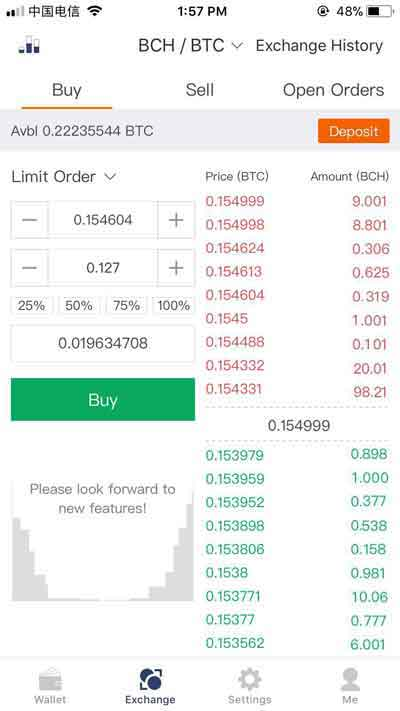
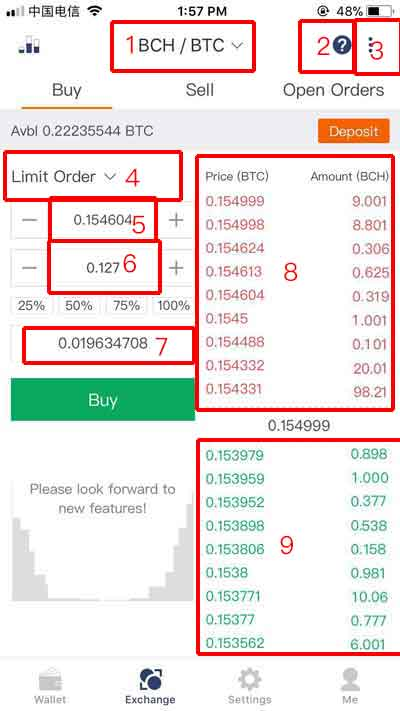
modify expie

diff --git a/Expie/index.rst b/Expie/index.rst
@@ -1,7 +1,7 @@
 交易所
 ========================
 
-目前 ExPie 支持 BCH/BTC 、BTG/BTC 、LTC/BTC 、ETH/BTC、 ETC/BTC、 ZEC/BTC 交易。
+目前 ExPie 支持 BCH/BTC 交易。
 
 将您需要交易的币充值到派银行。
 
@@ -29,7 +29,7 @@ BCH/BTC 买入
 
 
 
-2､ 选择下单类型限价、市价，默认为限价。
+2､ 下单类型：默认限价。
 
 3、输入 价格（BTC）、数量（BCH），选择比例，以及成交金额（BTC），选择买入。
 
@@ -38,6 +38,9 @@ BCH/BTC 买入
     :height: 520px
     :scale: 100%
     :align: center
+
+图中说明：1、切换交易对。 2、EXPIE LIMITED。 3､查看历史成交及交易流水。 4､下单类型。5､价格（BTC）。 6、数量（BCH）。 7、成交金额（BTC）。 8、卖单区。 9、买单区。
+
 
 
 4、买入之后，可在当前委托查看您买入的订单，等待订单成交。如果买入订单有误可以在当前委托界面中撤单。
@@ -50,7 +53,7 @@ BCH/BTC 买入
 
 
 
-5、订单成交之后，右上角 历史成交 界面查看订单详情。
+5、订单成交之后，可在右上角三点查看历史成交及交易流水。
 
 .. image:: ../img/btcdetail.jpg
     :width: 320px
@@ -66,7 +69,7 @@ BCH/BTC 卖出
 
 1、将 BCH 充值到派银行中，底部菜单－交易所－充值－派银行（充值)。
 
-2、选择类型下单类型限价、市价，默认为限价。
+2、下单类型：默认为限价。
 
 3、输入 价格（BTC）、数量（BCH），选择比例，以及成交金额（BTC），选择卖出。
 
@@ -79,7 +82,7 @@ BCH/BTC 卖出
 
 4、卖出之后，可在当前当前委托查看您卖出的订单，等待订单成交。如果卖出订单有误可以在当前委托界面中撤单。
 
-5、订单成交之后，右上角 历史成交 界面查看订单详情。
+5、订单成交之后，可在右上角三点查看历史成交及交易流水。
 
 
 
